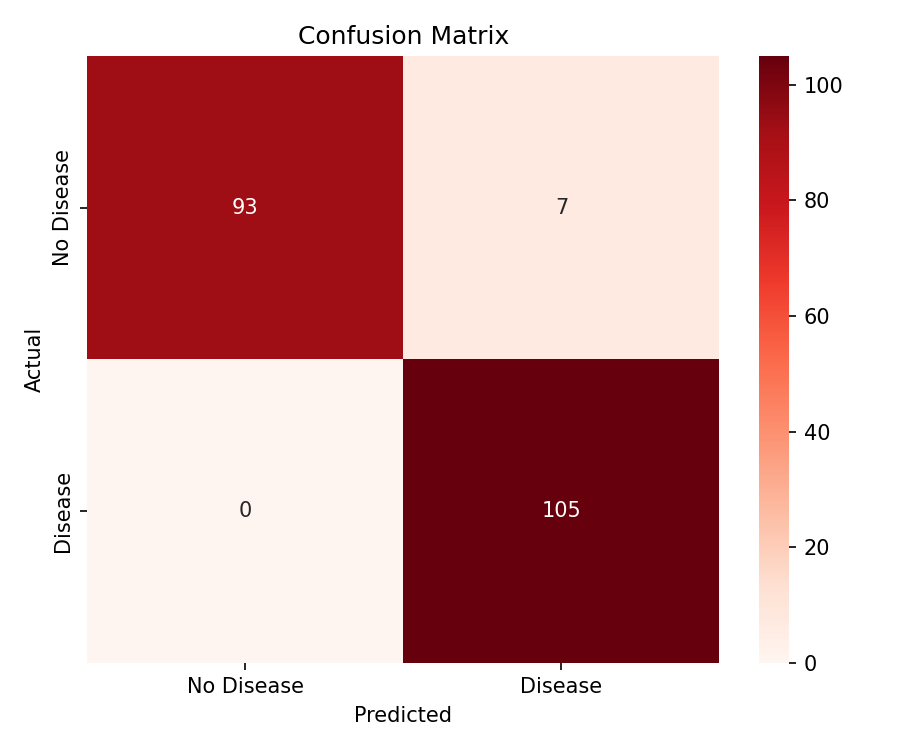
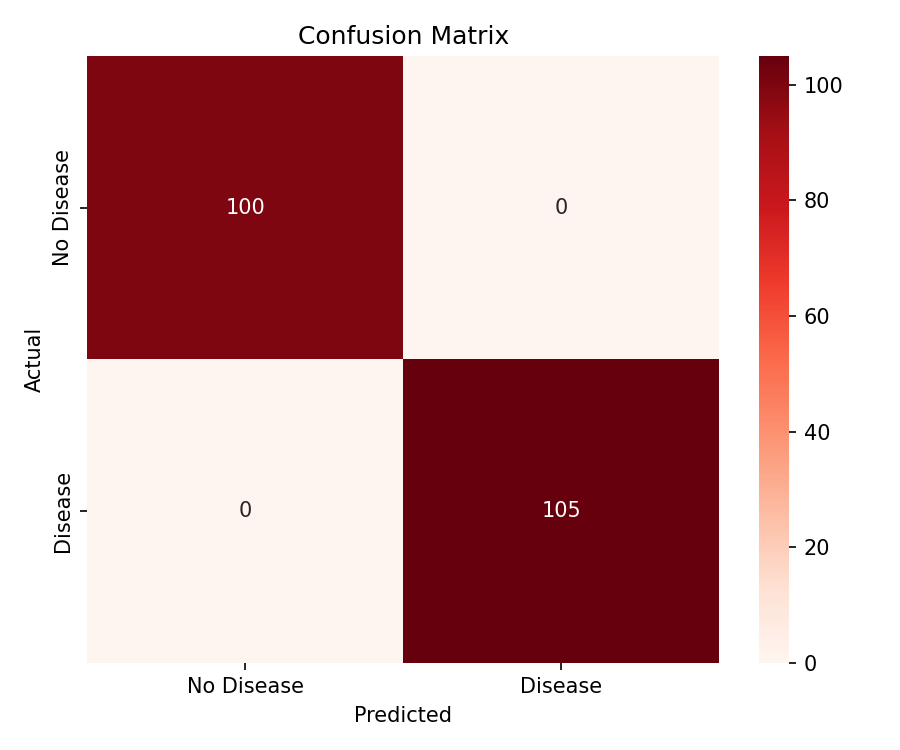
Fix keras model

Changed region(s): [[0.0933, 0.0613, 0.4667, 0.4907]]

diff --git a/config.py b/config.py
@@ -7,7 +7,7 @@ load_dotenv()
 # =========================
 
 BASE_DIR    = os.path.dirname(os.path.abspath(__file__))
-MODEL_PATH  = os.path.join(BASE_DIR, "model", "heart_model.h5")
+MODEL_PATH  = os.path.join(BASE_DIR, "model", "heart_model.keras")
 SCALER_PATH = os.path.join(BASE_DIR, "model", "scaler.pkl")
 DATASET_PATH= os.path.join(BASE_DIR, "dataset", "heart.csv")
 REPORTS_DIR = os.path.join(BASE_DIR, "reports")